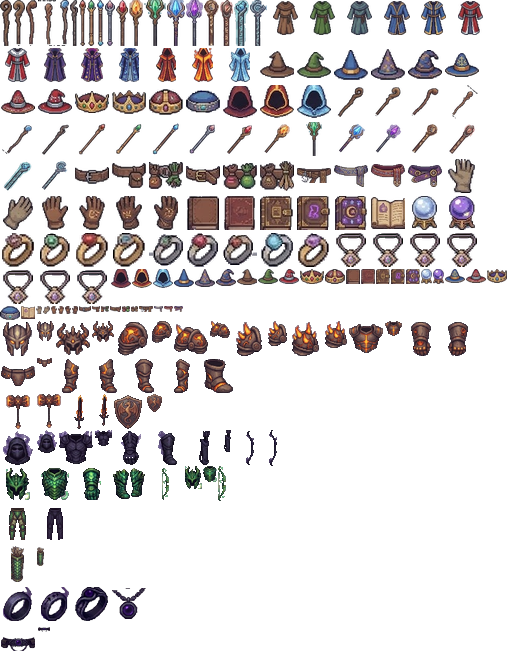
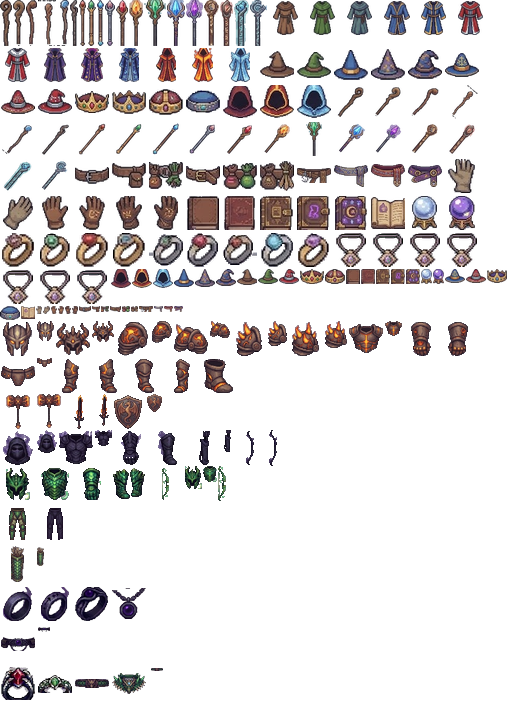
Add files via upload

diff --git a/eldoria/game/jade.js b/eldoria/game/jade.js
@@ -8,6 +8,13 @@ const PIECES = [
   ['jade_carcaj',   'Carcaj de Escamas de Jade', 'j_quiver', 'shield', 72, 26, { hp: 150, atk: 6, crit: 0.02 }, 0.05],
   ['jade_botas',    'Botas de Jade',        'j_boot',  'boots',  71, 22, { hp: 140 }, 0.06],
 ];
+// joyas y cinturón: [id, nombre, sprite, tipo, nivel, def, bonus, probabilidad]
+const JEWELS = [
+  ['jade_anillo_rubi',  'Anillo del Rubí Dracónico', 'j_ring_r', 'ring', 72, 0, { atk: 10, hp: 120, crit: 0.02 }, 0.05],
+  ['jade_anillo_hoja',  'Anillo de Hoja de Jade',    'j_ring_g', 'ring', 70, 0, { def: 10, hp: 160 }, 0.05],
+  ['jade_cinturon',     'Cinturón de Escamas de Jade', 'j_belt', 'belt', 71, 16, { hp: 180, atk: 5 }, 0.05],
+  ['jade_amuleto',      'Amuleto del Dragón de Jade', 'j_amulet', 'amulet', 74, 0, { hp: 350, mana: 100, atk: 8, crit: 0.03 }, 0.04],
+];
 const BOW = ['jade_arco', 'Arco de la Hidra', 'j_bow', 76, 128, 1150, 'poison', 0.01];
 const ICON = { head: '🐲', body: '🛡', gloves: '🧤', boots: '🥾', legs: '👖', shield: '🏹' };
 
@@ -16,8 +23,10 @@ function build(ITEMS, MONSTERS, bossType) {
     ITEMS[id] = { name, icon: ICON[type], spr, type, def, bonus, jade: 1, minLevel: L, sell: Math.round(8 + L * L * 3.4) * 4 };
   }
   { const [id, name, spr, L, atk, cd, el] = BOW; ITEMS[id] = { name, icon: '🏹', spr, type: 'weapon', style: 'ranged', atk, cd, range: 8, el, jade: 1, minLevel: L, sell: Math.round(8 + L * L * 3.4) * 6 }; }
+  for (const [id, name, spr, type, L, def, bonus] of JEWELS) ITEMS[id] = Object.assign({ name, icon: type === 'ring' ? '💍' : type === 'belt' ? '🎗' : '📿', spr, type, bonus, jade: 1, minLevel: L, sell: Math.round(8 + L * L * 3.4) * 4 }, def ? { def } : {});
   const boss = MONSTERS[bossType];
+  for (const j of JEWELS) boss.loot.push([j[0], j[7], 1, 1]);
   for (const p of PIECES) boss.loot.push([p[0], p[7], 1, 1]);
   boss.loot.push([BOW[0], BOW[7], 1, 1]);
 }
-module.exports = { build, PIECES, BOW };
+module.exports = { build, PIECES, JEWELS, BOW };

diff --git a/eldoria/test/logic2.js b/eldoria/test/logic2.js
@@ -201,7 +201,7 @@ ok('Dragón de las Sombras: nivel 500, aliento negro, pisotón con grietas y bot
 ok('Hidra de Jade: cueva propia, set de arquero y sus tres ataques', () => {
   assert.equal(MONSTERS.hidra_jade.special, 'hydra'); assert.equal(MONSTERS.hidra_jade.respawn, 60000);
   const loot = MONSTERS.hidra_jade.loot.map((l) => l[0]);
-  ['jade_yelmo', 'jade_coraza', 'jade_guantes', 'jade_botas', 'jade_arco', 'jade_pantalon', 'jade_carcaj'].forEach((i) => assert.ok(loot.includes(i), i));
+  ['jade_yelmo', 'jade_coraza', 'jade_guantes', 'jade_botas', 'jade_arco', 'jade_pantalon', 'jade_carcaj', 'jade_anillo_rubi', 'jade_anillo_hoja', 'jade_cinturon', 'jade_amuleto'].forEach((i) => assert.ok(loot.includes(i), i));
   assert.equal(ITEMS.jade_carcaj.type, 'shield');
   assert.equal(ITEMS.jade_arco.style, 'ranged');
   const sp = world.monsterSpawns.find((q) => q.type === 'hidra_jade'); assert.equal(zoneOf([sp.x, sp.y]).id, 'cueva_jade');

diff --git a/eldoria/README.md b/eldoria/README.md
@@ -164,3 +164,6 @@ Hechizo de curar (V): cura 1000 de vida fijos y se recarga en 4 s (`HEAL_AMOUNT`
 Drops del Dragón de las Sombras (4–5% base, ×0.5 por la reducción de equipo): **Anillo Umbrío** (nv 60, +12 def, +120 vida), **Anillo de la Noche Estrellada** (nv 62, +10 ataque, +3% crítico), **Anillo del Vacío Violeta** (nv 64, +8 ataque, +100 vida, +2% crítico) y **Amuleto del Abismo Violeta** (nv 66, +300 vida, +150 maná, +3% crítico). Aparecen en la colección de jefes.
 
 **Cinturón de las Sombras** (cinturón, nv 63, def 14, +160 vida, +60 maná, +1% crítico): drop del Dragón de las Sombras (5% base). Se dibuja en la cintura del personaje.
+
+## Joyas de la Hidra de Jade
+Drops de la Hidra de Jade (4–5% base, ×0.5 por la reducción de equipo): **Anillo del Rubí Dracónico** (nv 72, +10 ataque, +120 vida, +2% crít.), **Anillo de Hoja de Jade** (nv 70, +10 def, +160 vida), **Cinturón de Escamas de Jade** (nv 71, def 16, +180 vida, +5 ataque) y **Amuleto del Dragón de Jade** (nv 74, +350 vida, +100 maná, +8 ataque, +3% crít.). Salen en la colección de jefes.
